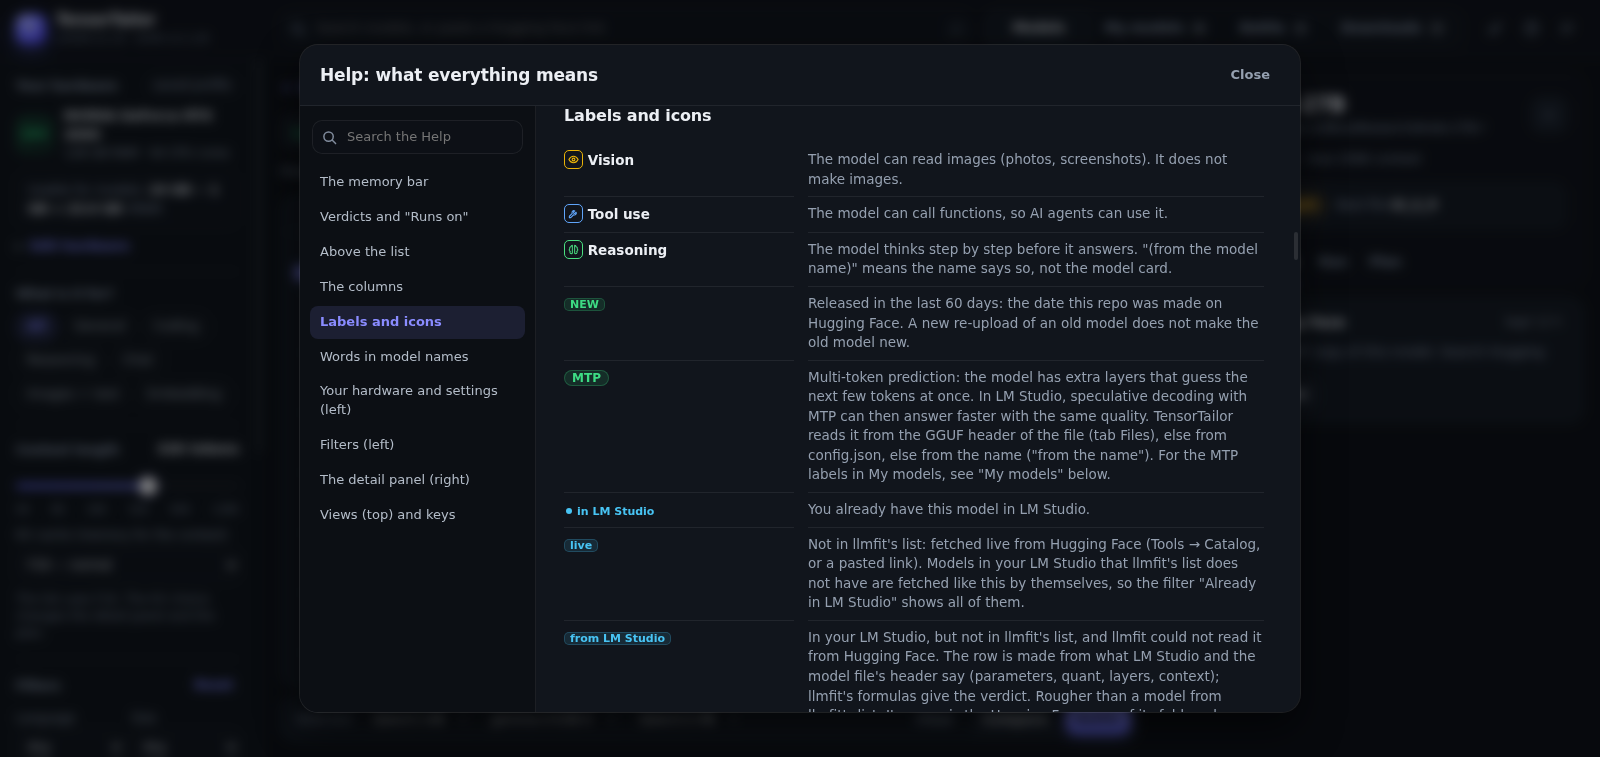
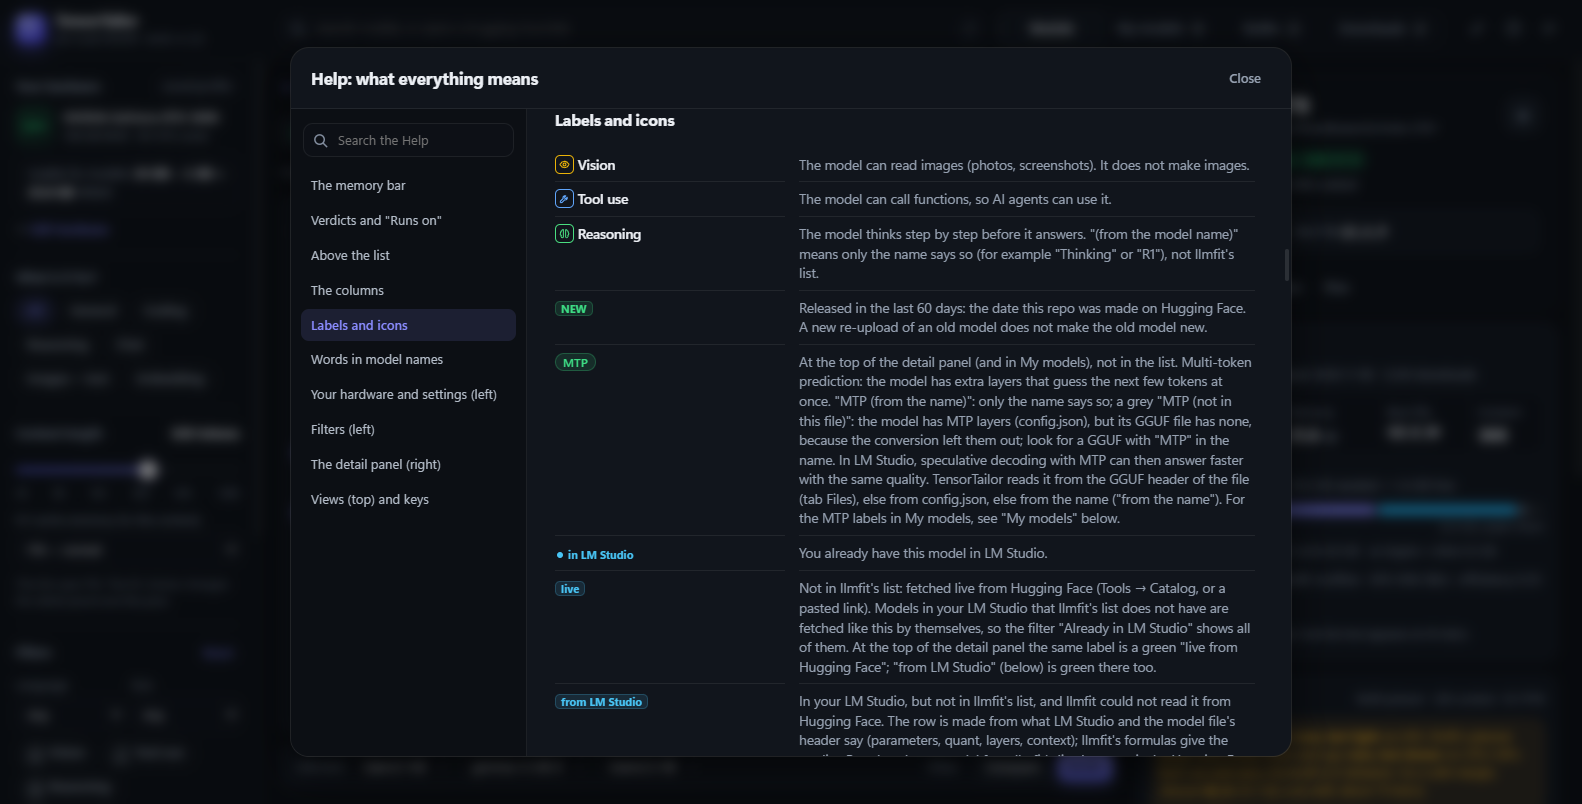
Implemented by Claude Opus 5.5: docs(web): clearer Help wording and README (audit C28-C35)
- Best file column: the rule is a list area below about 780 px.
- Open license: names all licenses the filter lets through.
- "3 similar" is in the My models table; Export CSV sits between the sparkle
  and the (i); live / from LM Studio are green tags in the detail panel.
- README: the memory bar colours in "See what fits"; the test table lists
  tools/test-name-words.json and tools/test-help-audit.json.
- New test step for these texts; README Help picture retaken.

diff --git a/web/app.html b/web/app.html
@@ -1228,7 +1228,7 @@ details.by-hand .hint { margin-top: 6px; }
       <dt>The four tiles</dt><dd>The segments at the left of the toolbar count each verdict. Click one to show or hide those models; a hidden one is grey and says "hidden". <b>Won't fit</b> is hidden at the start (and again after <b>Defaults</b>). With an upgrade on, "+N by upgrade" says how many of them fit only thanks to the upgrade.</dd>
       <dt>Count line</dt><dd>At the right of the filter chips: how many models are shown, how many the tiles hide, how many llmfit analysed, and how long that took.</dd>
       <dt>Filter chips</dt><dd>Every active filter is a chip: click its × to remove it. <b>Clear all</b> shows every analysed model; <b>Defaults</b> gives the start values.</dd>
-      <dt>Export CSV</dt><dd>The arrow-up button next to Sort: saves the shown list as a CSV file (for a spreadsheet).</dd>
+      <dt>Export CSV</dt><dd>The arrow-up button right of Sort, between the sparkle (Top picks) and the (i): saves the shown list as a CSV file (for a spreadsheet).</dd>
       <dt>Legend</dt><dd>The (i) button next to Sort: opens this help at "The memory bar".</dd>
       <dt>Sort</dt><dd>The list next to the arrows icon: best match, fastest, smallest, largest, longest usable context, newest, most downloaded, or name.</dd>
     </dl>
@@ -1236,7 +1236,7 @@ details.by-hand .hint { margin-top: 6px; }
     <h3>The columns</h3>
     <dl>
       <dt>Model</dt><dd>The name (↗ opens it on Hugging Face), its labels and icons (see below), the publisher and the number of parameters: B = billion, M = million. More parameters usually means smarter, but bigger and slower. The star makes it a favorite; the box selects it for compare or battle. Both show when you point at a row, and stay on the chosen row, on a starred model and on a ticked box.</dd>
-      <dt>Best file</dt><dd>The quantization (file version) llmfit picks for this PC. Q8_0 is close to the original quality; Q6, Q5, Q4, Q3, Q2 are smaller and faster, but less precise. F16/BF16 = original size. When the list is narrow (a screen about 1366 px wide), this column is left out; the detail panel shows it.</dd>
+      <dt>Best file</dt><dd>The quantization (file version) llmfit picks for this PC. Q8_0 is close to the original quality; Q6, Q5, Q4, Q3, Q2 are smaller and faster, but less precise. F16/BF16 = original size. When the list area is narrow (below about 780 px: a laptop screen, or a wide detail panel), this column is left out; the detail panel shows it.</dd>
       <dt>Memory</dt><dd>The memory bar (see above), with the memory the model needs.</dd>
       <dt>Speed</dt><dd>Tokens per second (a token is about ¾ of a word). A range, because it is an estimate. About 7 tok/s is reading pace.</dd>
       <dt>Verdict</dt><dd>How well it runs here. Under it, where it runs: CPU+GPU, MoE offload or CPU. No line means GPU (everything in VRAM).</dd>
@@ -1252,7 +1252,7 @@ details.by-hand .hint { margin-top: 6px; }
       <dt><span class="chip new">NEW</span></dt><dd>Released in the last 60 days: the date this repo was made on Hugging Face. A new re-upload of an old model does not make the old model new.</dd>
       <dt><span class="tag okay">MTP</span></dt><dd>At the top of the detail panel (and in My models), not in the list. Multi-token prediction: the model has extra layers that guess the next few tokens at once. "MTP (from the name)": only the name says so; a grey "MTP (not in this file)": the model has MTP layers (config.json), but its GGUF file has none, because the conversion left them out; look for a GGUF with "MTP" in the name. In LM Studio, speculative decoding with MTP can then answer faster with the same quality. TensorTailor reads it from the GGUF header of the file (tab Files), else from config.json, else from the name ("from the name"). For the MTP labels in My models, see "My models" below.</dd>
       <dt><span class="chip lms">in LM Studio</span></dt><dd>You already have this model in LM Studio.</dd>
-      <dt><span class="chip live">live</span></dt><dd>Not in llmfit's list: fetched live from Hugging Face (Tools → Catalog, or a pasted link). Models in your LM Studio that llmfit's list does not have are fetched like this by themselves, so the filter "Already in LM Studio" shows all of them.</dd>
+      <dt><span class="chip live">live</span></dt><dd>Not in llmfit's list: fetched live from Hugging Face (Tools → Catalog, or a pasted link). Models in your LM Studio that llmfit's list does not have are fetched like this by themselves, so the filter "Already in LM Studio" shows all of them. At the top of the detail panel the same label is a green "live from Hugging Face"; "from LM Studio" (below) is green there too.</dd>
       <dt><span class="chip live">from LM Studio</span></dt><dd>In your LM Studio, but not in llmfit's list, and llmfit could not read it from Hugging Face. The row is made from what LM Studio and the model file's header say (parameters, quant, layers, context); llmfit's formulas give the verdict. Rougher than a model from llmfit's list. Its name is the Hugging Face repo of its folder when there is one; else it starts with <code>lmstudio/</code>: then no Hugging Face page is known, its ↗ link searches Hugging Face for the name, and it is counted apart from the live models (Tools → Catalog).</dd>
       <dt><span class="chip lock">size uncertain</span></dt><dd>The name shows already-compressed weights that are not GGUF (EXL2/EXL3, bnb, AWQ, GPTQ, MLX, vllm, "9bit" …), or says far more parameters than llmfit counts (for example 27B in the name, 10.3B counted). llmfit then counted the compressed weights, so its memory and speed are too optimistic. These rows come after all other models that fit (before Won't fit) and are never a top pick; the Overview tab says why. Look for a GGUF copy of the original model instead.</dd>
       <dt><span class="chip lock">gated</span></dt><dd>Gated on Hugging Face: accept the terms on the model page first, then set your Hugging Face token (the key button at the top right, or Tools → Hugging Face token) to download the files. A repo with an open license can be gated too.</dd>
@@ -1327,7 +1327,7 @@ details.by-hand .hint { margin-top: 6px; }
       <dt>Released in the last 60 days</dt><dd>Only new models (label NEW).</dd>
       <dt>Only my favorites ★</dt><dd>Only the models you starred.</dd>
       <dt>Already in LM Studio</dt><dd>Only the models you have in LM Studio (label "in LM Studio").</dd>
-      <dt>Open license (Apache, MIT)</dt><dd>Only models with a plain open license.</dd>
+      <dt>Open license (Apache, MIT)</dt><dd>Only models with a plain open license: Apache 2.0, MIT, BSD, CC-BY-4.0, OpenRAIL or BigScience.</dd>
       <dt>No token needed</dt><dd>Hides the models that are gated on Hugging Face (label "gated").</dd>
       <dt>Hide uncensored versions</dt><dd>Hides models whose name says abliterated (or obliterated), Heretic, uncensored (or decensored, unfiltered), derestricted or NSFW. Off by default. See "Words in model names".</dd>
       <dt>Fits fully in VRAM</dt><dd>Only models that run fully on the graphics card.</dd>
@@ -1357,7 +1357,7 @@ details.by-hand .hint { margin-top: 6px; }
       <dt>My models: Best setting</dt><dd>For a model matched to llmfit's list: the longest context that runs well, from llmfit's planner, the same advice as the LM Studio card in the Run tab ("Runs well up to 32K · 64K with KV Q8_0" = 32K normally, 64K with K and V cache at Q8_0). Capped at LM Studio's maximum. Not matched: a rough estimate from the file size. A loaded model with a longer context than fits gets a warning.</dd>
       <dt>My models: Updates</dt><dd>After TensorTailor has read your models folder, it asks Hugging Face about each model file and its vision projector (the folder name is the repo; once a day, or <b>Check again</b>; a check that got no answer is tried again after 10 minutes). The card says "All up to date" only when every file was checked and is the same; else "No update found". <span class="tag warnish">update available</span>: the file on Hugging Face now has another size or SHA-256; <b>What changed ↗</b> opens its history. <span class="tag">maybe changed</span>: same size, but changed there after your file's date. "✓ up to date (size and date)": same size, not changed since. <b>Check SHA-256</b> reads your whole file from disk (about a minute per 10 GB) and compares it exactly; then it says "(SHA-256, checked here)". Files you got with Downloads were already checked at the end of the download: "(SHA-256, checked at download)", no button needed. The update check never replaces or deletes a file.</dd>
       <dt>My models: Measure</dt><dd>Next to a model that is loaded in LM Studio. LM Studio writes about 256 tokens (10–30 seconds) and TensorTailor keeps the real speed next to the estimate: "measured 27 · est. 30–40 for your Q4_K_M", also in the detail panel's Speed. Point at it for the details (date, context, first token, the estimate then). The estimate is llmfit's, scaled to your own file when llmfit counts another quant. Measure never loads or unloads a model: before each request it asks LM Studio again whether the model is still loaded, and stops if not. With GPU measurements of models in llmfit's list (MTP off: speculative decoding is faster than any estimate), other models show "your PC: ~A–B" in the detail panel: llmfit's range times your measured share (the median).</dd>
-      <dt>My models: Similar models and disk space</dt><dd>Below the list: your models that come from the same base model (fine-tunes, uncensored versions, other quants), with their size on disk, verdict, best setting and folder (click to copy). Hugging Face says per repo which model it was made from; TensorTailor follows that up to the first model (remembered 30 days, <b>Check again</b> asks anew). It starts at the repo of the model's folder, else at the matched model (also a "from LM Studio" row named after its repo). Without an answer, the same design in the file header groups them. "Keeping only one of them would free up to …" = the group minus its smallest model. The label <span class="tag">3 similar</span> in the list marks them. TensorTailor never deletes anything: remove a model in LM Studio or in File Explorer.</dd>
+      <dt>My models: Similar models and disk space</dt><dd>Below the list: your models that come from the same base model (fine-tunes, uncensored versions, other quants), with their size on disk, verdict, best setting and folder (click to copy). Hugging Face says per repo which model it was made from; TensorTailor follows that up to the first model (remembered 30 days, <b>Check again</b> asks anew). It starts at the repo of the model's folder, else at the matched model (also a "from LM Studio" row named after its repo). Without an answer, the same design in the file header groups them. "Keeping only one of them would free up to …" = the group minus its smallest model. The label <span class="tag">3 similar</span> in the My models table marks them. TensorTailor never deletes anything: remove a model in LM Studio or in File Explorer.</dd>
       <dt>Battle</dt><dd>2 to 4 models (checkbox in the list, or <b>Add to battle</b> in Top picks) compete on this PC in four rounds: quality, speed, memory and context. One winner is named.</dd>
       <dt>Selected · Compare</dt><dd>Tick the box of a model (or press <kbd>C</kbd>), at most 4. A strip <b>Selected:</b> appears at the bottom with their names (× removes one). <b>Compare</b> opens the window "Compare models" with them side by side (2 or more); <b>Battle</b> opens the Battle view; <b>Clear</b> removes all ticks.</dd>
       <dt>Downloads</dt><dd>Files you download (tab Files → <b>Download</b>). Choose LM Studio's models folder once; each file goes to the publisher's and repo's folder, so LM Studio sees it at once. Files come in parts, so <b>Resume</b> goes on after a crash. The SHA-256 of the parts is checked before they are joined, so a damaged download never appears in LM Studio's folder; at the end the file is read back and checked again (<b>Check again</b> reads it once more). <b>SHA-256 differs</b>: <b>Download again</b> asks you, deletes the damaged file and downloads it anew. A different file with the same name is never overwritten. A vision model's projector (mmproj) is taken along, and all parts of a split model ("part 1 of 3") are downloaded together. <b>Remove from list</b> never deletes a finished model file.</dd>

diff --git a/README.md b/README.md
@@ -12,7 +12,9 @@ as WebAssembly. Every build checks that the page gives exactly the same answers 
 ## What you can do with it
 
 - **See what fits.** Every model gets a verdict for your PC: *Runs well*, *Runs, but tight*, *Runs, but
-  slower* or *Won't fit*, with the expected speed in tokens per second and the memory it needs. Repos with
+  slower* or *Won't fit*, with the expected speed in tokens per second and the memory it needs. The memory bar
+  shows the part in VRAM in grey (with an amber end when VRAM is almost full) and the part that has to go to the
+  slower system RAM as orange stripes. Repos with
   already-compressed weights in another format (EXL3, bnb-4bit, AWQ, GPTQ, MLX …) get the label *size uncertain*:
   LM Studio cannot load them as they are, and llmfit counts them too small.
 - **Pick the right file.** Tab **Files** shows the real GGUF files on Hugging Face, with size and SHA-256.
@@ -176,6 +178,8 @@ use made-up demo data.
 | `tools/test-sha256.mjs` | Checks the page's SHA-256 against Node's crypto and measures its speed |
 | `tools/test-downloads.json` | Download test: pause, reload, resume, join, SHA-256, damaged file, Download again, parts check, no overwrite, remove (run with `CDP_SERVE_DIR`) |
 | `tools/test-review2.json` | The fixes of the second review: GGUF header values as data, release dates, memory labels at every width, config.json requests, hardware import, Run commands, KV choice, file matching, Measure |
+| `tools/test-name-words.json` | Words in model names: which names get a "Name says" line, the filter "Hide uncensored versions", the Help link |
+| `tools/test-help-audit.json` | The Help audit of 2026-11-13: memory bar to scale with orange stripes, and the Help texts that were fixed or added |
 | `tools/test-lms-load.json` | "Load in LM Studio" test: every load and unload is caught, nothing really loads |
 | `tools/run-all-tests.ps1` | Builds the page and runs every test above in headless Chrome (`-Readme` also makes the README pictures) |
 | `tools/test-key.json` | The token key in the header: grey without a token, green with one, a click opens the token window |
